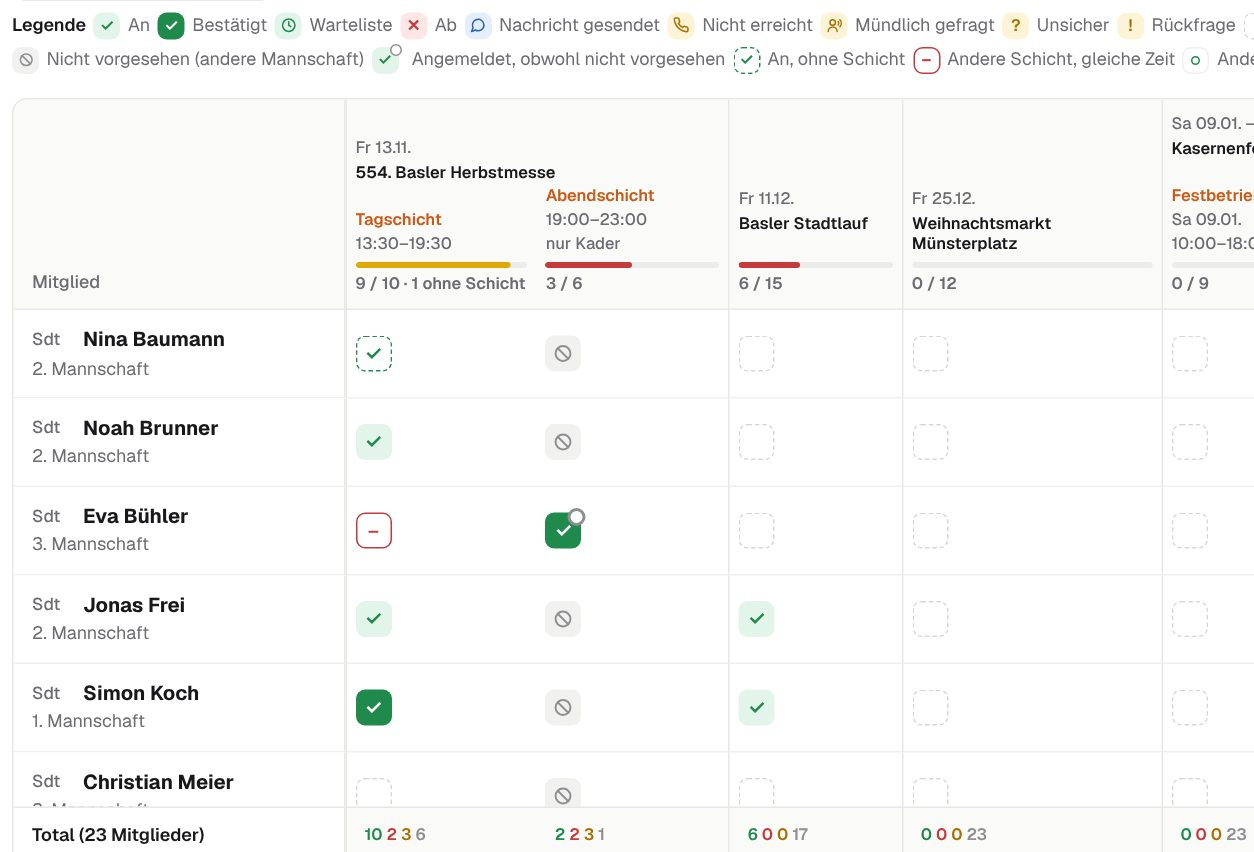
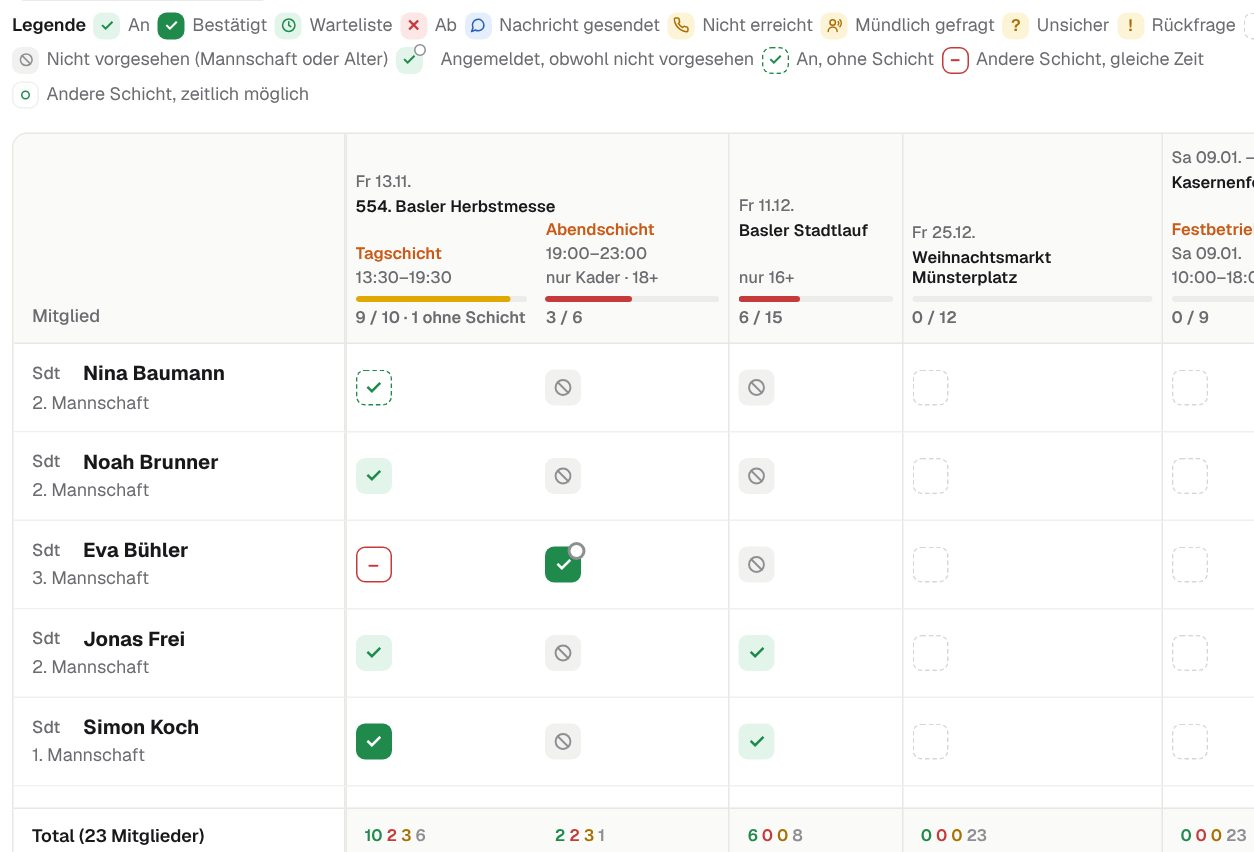
Schichten: Mindestalter 16+ / 18+ als Einschränkung (wie Mannschaften nur Hinweis)
- Schichten bearbeiten: neue Spalte «Alter» (alle, 16+, 18+)
- Alter am Tag der Schicht aus Geburtsdatum, sonst Jahrgang; unbekannt = vorgesehen
- Formular «Nur Kader · 18+», Rückmeldungen, Anfragen, Handy-App und Schichten berücksichtigen das Alter
- Handbuch Kapitel 8, 11, 12 und 13 nachgeführt

Claude-Session: https://claude.ai/code/session_01EBemd2wjisuy26JBVCoBZd

diff --git a/src/services/events.js b/src/services/events.js
@@ -34,13 +34,13 @@ function parseJson(s, fallback) {
 
 // Schichten mit «targets» = Soll pro Funktion ({ id: Anzahl }); target_count ist die Summe davon.
 // «teams» = vorgesehene Mannschaften (leer = alle)
-// «teamNames» = Namen dazu, z. B. «Kader» (leer = alle)
+// «rule» = Einschränkung als Text, z. B. «Kader · 18+» (leer = alle)
 function shiftsOf(eventId) {
   const list = db.all('SELECT * FROM shifts WHERE event_id = ? ORDER BY sort, starts_at, id', eventId)
-    .map((s) => ({ ...s, targets: functions.parseTargets(s.function_targets), teams: shiftTeams.parse(s.team_ids), teamNames: '' }));
-  if (list.some((s) => s.teams.length)) {
+    .map((s) => ({ ...s, targets: functions.parseTargets(s.function_targets), teams: shiftTeams.parse(s.team_ids), rule: '' }));
+  if (list.some(shiftTeams.restricted)) {
     const teams = db.all('SELECT id, name, sort FROM teams ORDER BY sort, name');
-    for (const s of list) s.teamNames = shiftTeams.label(s.teams, teams);
+    for (const s of list) s.rule = shiftTeams.ruleText(s, teams);
   }
   return list;
 }
@@ -359,11 +359,14 @@ function saveShifts(eventId, rows, newRow, user, { reason } = {}) {
     const teams = teamsFromInput(input);
     const oldTeams = shiftTeams.parse(shift.team_ids);
     const teamsChanged = Boolean(teams) && JSON.stringify(teams) !== JSON.stringify(oldTeams);
+    const minAge = input.min_age === undefined ? undefined : shiftTeams.parseMinAge(input.min_age);
+    const ageChanged = minAge !== undefined && minAge !== (shift.min_age || null);
     const details = audit.diff(shift, s, Object.keys(s));
-    if (!Object.keys(details).length && !targetsChanged && !teamsChanged) continue;
+    if (!Object.keys(details).length && !targetsChanged && !teamsChanged && !ageChanged) continue;
+    if (ageChanged) details.mindestalter = { alt: shift.min_age ? `${shift.min_age}+` : 'alle', neu: minAge ? `${minAge}+` : 'alle' };
     if (targetsChanged) details.soll = { alt: shift.target_count, neu: functions.total(targets) || null };
     if (teamsChanged) details.mannschaften = { alt: shiftTeams.label(oldTeams) || 'alle', neu: shiftTeams.label(teams) || 'alle' };
-    updates.push({ shift, s, targets: targetsChanged ? targets : null, teams: teamsChanged ? teams : null, details });
+    updates.push({ shift, s, targets: targetsChanged ? targets : null, teams: teamsChanged ? teams : null, minAge: ageChanged ? minAge : undefined, details });
   }
   let added = null;
   const hasNew = newRow && ['name', 'start', 'end', 'start_place', 'internal_note'].some((k) => String(newRow[k] || '').trim())
@@ -371,7 +374,7 @@ function saveShifts(eventId, rows, newRow, user, { reason } = {}) {
   if (hasNew) {
     if (!String(newRow.name || '').trim()) throw new ValidationError(['Neue Schicht: Name fehlt.']);
     try {
-      added = { s: cleanShift(e, newRow), targets: targetsFromInput(newRow) || {}, teams: teamsFromInput(newRow) || [] };
+      added = { s: cleanShift(e, newRow), targets: targetsFromInput(newRow) || {}, teams: teamsFromInput(newRow) || [], minAge: shiftTeams.parseMinAge(newRow.min_age) };
     } catch (err) {
       if (err instanceof ValidationError) throw new ValidationError(err.messages.map((m) => `Neue Schicht: ${m}`));
       throw err;
@@ -384,18 +387,19 @@ function saveShifts(eventId, rows, newRow, user, { reason } = {}) {
         u.s.name, u.s.starts_at, u.s.ends_at, u.s.start_place, u.s.internal_note, u.shift.id);
       if (u.targets) setShiftTargets(u.shift.id, u.targets);
       if (u.teams) db.run('UPDATE shifts SET team_ids = ? WHERE id = ?', JSON.stringify(u.teams), u.shift.id);
+      if (u.minAge !== undefined) db.run('UPDATE shifts SET min_age = ? WHERE id = ?', u.minAge, u.shift.id);
       audit.log({ entity: 'shift', entityId: u.shift.id, eventId: e.id, action: 'update', summary: `${user.display_name} hat die Schicht «${u.s.name}» bei «${e.name}» geändert${reason ? ` – Begründung: ${reason}` : ''}`, details: u.details, user });
     }
-    if (added) insertShift(e, added.s, added.targets, user, added.teams);
+    if (added) insertShift(e, added.s, added.targets, user, added.teams, added.minAge);
   });
   live.notify(`event:${e.id}`, 'form');
   return { updated: updates.length, added: Boolean(added) };
 }
 
-function insertShift(e, s, targets, user, teams = []) {
+function insertShift(e, s, targets, user, teams = [], minAge = null) {
   const sort = (db.one('SELECT max(sort) AS m FROM shifts WHERE event_id = ?', e.id).m ?? 0) + 1;
-  const info = db.run('INSERT INTO shifts (event_id, name, starts_at, ends_at, start_place, internal_note, team_ids, sort) VALUES (?, ?, ?, ?, ?, ?, ?, ?)',
-    e.id, s.name, s.starts_at, s.ends_at, s.start_place, s.internal_note, JSON.stringify(shiftTeams.parse(teams)), sort);
+  const info = db.run('INSERT INTO shifts (event_id, name, starts_at, ends_at, start_place, internal_note, team_ids, min_age, sort) VALUES (?, ?, ?, ?, ?, ?, ?, ?, ?)',
+    e.id, s.name, s.starts_at, s.ends_at, s.start_place, s.internal_note, JSON.stringify(shiftTeams.parse(teams)), shiftTeams.parseMinAge(minAge), sort);
   setShiftTargets(Number(info.lastInsertRowid), targets || {});
   // Sobald es mehrere Schichten gibt, ist die Standardschicht eine normale Schicht
   db.run('UPDATE shifts SET is_default = 0 WHERE event_id = ?', e.id);

diff --git a/src/services/shift-teams.js b/src/services/shift-teams.js
@@ -1,8 +1,10 @@
 'use strict';
-// Vorgesehene Mannschaften pro Schicht (z. B. eine Schicht nur für Kader).
-// Leer = alle Mannschaften. Die Einstellung ist ein Hinweis: Anmelden und Einteilen bleiben für alle möglich,
+// Einschränkungen pro Schicht: vorgesehene Mannschaften (z. B. nur Kader) und Mindestalter (16+ / 18+).
+// Leer = alle. Die Einstellung ist ein Hinweis: Anmelden und Einteilen bleiben für alle möglich,
 // die Rückmeldungen zeigen nicht vorgesehene Personen mit einem eigenen Symbol.
 const db = require('../db');
+
+const MIN_AGES = [16, 18];
 
 // JSON oder Liste -> sortierte Liste eindeutiger Mannschafts-IDs
 function parse(value) {
@@ -13,29 +15,68 @@ function parse(value) {
   return [...new Set([].concat(list || []).map(Number).filter((n) => Number.isInteger(n) && n > 0))].sort((a, b) => a - b);
 }
 
-// Mannschaften pro Person: Map(personId -> Set(teamId)); ohne Liste = alle Personen
-function personTeams(personIds = null) {
-  const rows = personIds
-    ? (personIds.length ? db.all(`SELECT person_id, team_id FROM person_teams WHERE person_id IN (${personIds.map(() => '?').join(',')})`, ...personIds) : [])
-    : db.all('SELECT person_id, team_id FROM person_teams');
+// Formular -> Mindestalter (16, 18) oder null
+function parseMinAge(value) {
+  const n = Number(value);
+  return MIN_AGES.includes(n) ? n : null;
+}
+
+// Angaben pro Person für die Prüfung: Map(personId -> { teams: Set, birth_date, birth_year })
+function personInfo(personIds) {
+  const ids = [...new Set(personIds.filter(Boolean))];
   const map = new Map();
-  for (const r of rows) {
-    if (!map.has(r.person_id)) map.set(r.person_id, new Set());
-    map.get(r.person_id).add(r.team_id);
+  if (!ids.length) return map;
+  const ph = ids.map(() => '?').join(',');
+  for (const p of db.all(`SELECT id, birth_date, birth_year FROM persons WHERE id IN (${ph})`, ...ids)) {
+    map.set(p.id, { teams: new Set(), birth_date: p.birth_date, birth_year: p.birth_year });
   }
+  for (const r of db.all(`SELECT person_id, team_id FROM person_teams WHERE person_id IN (${ph})`, ...ids)) map.get(r.person_id)?.teams.add(r.team_id);
   return map;
 }
 
-// Ist eine Person mit diesen Mannschaften für die Schicht vorgesehen?
-function allows(teamIds, personTeamSet) {
-  if (!teamIds || !teamIds.length) return true;
-  return Boolean(personTeamSet) && teamIds.some((t) => personTeamSet.has(t));
+// Alter am Tag «day» (YYYY-MM-DD): aus dem Geburtsdatum, sonst aus dem Jahrgang; unbekannt = null
+function ageOn(person, day) {
+  if (!person || !day) return null;
+  const y = Number(day.slice(0, 4));
+  if (/^\d{4}-\d{2}-\d{2}$/.test(person.birth_date || '')) {
+    const b = person.birth_date;
+    return y - Number(b.slice(0, 4)) - (day.slice(5) < b.slice(5) ? 1 : 0);
+  }
+  if (person.birth_year) return y - Number(person.birth_year);
+  return null;
 }
 
-// Namen der Mannschaften, z. B. «Kader, Zug 1»; leer = «alle»
+// Tag einer Schicht für die Altersprüfung
+function shiftDay(shift, event) {
+  return shift?.starts_at?.slice(0, 10) || event?.date || event?.date_from || null;
+}
+
+// Hat die Schicht eine Einschränkung?
+function restricted(shift) {
+  return Boolean(shift && ((shift.teams && shift.teams.length) || shift.min_age));
+}
+
+// Ist die Person für die Schicht vorgesehen? Unbekanntes Alter zählt als vorgesehen.
+function allows(shift, person, day) {
+  if (!restricted(shift)) return true;
+  if (shift.teams && shift.teams.length && !(person && shift.teams.some((t) => person.teams.has(t)))) return false;
+  if (shift.min_age) {
+    const age = ageOn(person, day);
+    if (age !== null && age < shift.min_age) return false;
+  }
+  return true;
+}
+
+// Namen der Mannschaften, z. B. «Kader, Zug 1»; leer = alle
 function label(teamIds, teams = db.all('SELECT id, name, sort FROM teams ORDER BY sort, name')) {
   if (!teamIds || !teamIds.length) return '';
   return teams.filter((t) => teamIds.includes(t.id)).map((t) => t.name).join(', ');
 }
 
-module.exports = { parse, personTeams, allows, label };
+// Text der Einschränkung, z. B. «Kader · 18+»; leer = keine
+function ruleText(shift, teams) {
+  if (!restricted(shift)) return '';
+  return [label(shift.teams || [], teams), shift.min_age ? `${shift.min_age}+` : ''].filter(Boolean).join(' · ');
+}
+
+module.exports = { MIN_AGES, parse, parseMinAge, personInfo, ageOn, shiftDay, restricted, allows, label, ruleText };

diff --git a/src/services/feedback.js b/src/services/feedback.js
@@ -108,7 +108,7 @@ function matrix({ team = '', period = '3m', sort = 'rang', includeDrafts = false
     // Soll = Summe der Soll-Werte aller Schichten
     const soll = new Map(db.all(`SELECT event_id, SUM(target_count) AS n FROM shifts WHERE event_id IN (${ph}) GROUP BY event_id`, ...ids).map((r) => [r.event_id, r.n]));
     const shifts = new Map();
-    for (const sh of db.all(`SELECT id, event_id, name, starts_at, ends_at, target_count, team_ids FROM shifts WHERE event_id IN (${ph}) ORDER BY sort, starts_at, id`, ...ids)) {
+    for (const sh of db.all(`SELECT id, event_id, name, starts_at, ends_at, target_count, team_ids, min_age FROM shifts WHERE event_id IN (${ph}) ORDER BY sort, starts_at, id`, ...ids)) {
       sh.teams = shiftTeams.parse(sh.team_ids);
       if (!shifts.has(sh.event_id)) shifts.set(sh.event_id, []);
       shifts.get(sh.event_id).push(sh);
@@ -138,18 +138,16 @@ function matrix({ team = '', period = '3m', sort = 'rang', includeDrafts = false
     : [{ event: e, shift: null, first: true, key: `${e.id}:0` }]));
   const totals = Object.fromEntries(evts.map((e) => [e.id, { an: 0, ab: 0, unsicher: 0, offen: 0 }]));
   const colTotals = Object.fromEntries(columns.map((c) => [c.key, { an: 0, ab: 0, unsicher: 0, offen: 0, andere: 0, schicht_offen: 0, nicht_vorgesehen: 0 }]));
-  // Vorgesehene Mannschaften: wer nicht dazugehört, bekommt ein eigenes Symbol (Anmelden bleibt möglich)
-  const pTeams = shiftTeams.personTeams(people.map((p) => p.id));
+  // Einschränkungen (Mannschaften, Mindestalter): wer nicht passt, bekommt ein eigenes Symbol (Anmelden bleibt möglich)
+  const pInfo = shiftTeams.personInfo(people.map((p) => p.id));
   const teamNames = db.all('SELECT id, name, sort FROM teams ORDER BY sort, name');
+  for (const e of evts) for (const sh of e.allShifts) sh.rule = shiftTeams.ruleText(sh, teamNames);
+  const fits = (p, sh, e) => shiftTeams.allows(sh, pInfo.get(p.id), shiftTeams.shiftDay(sh, e));
   // Für den Einsatz vorgesehen = für mindestens eine Schicht vorgesehen (ohne Schichten: immer)
-  const plannedForEvent = (p, e) => !e.allShifts.length || e.allShifts.some((sh) => shiftTeams.allows(sh.teams, pTeams.get(p.id)));
-  const plannedForCol = (p, col) => (col.shift ? shiftTeams.allows(col.shift.teams, pTeams.get(p.id)) : plannedForEvent(p, col.event));
-  // Text für das Fenster: für welche Mannschaften die Schicht(en) gedacht sind
-  const plannedText = (col) => {
-    const list = col.shift ? [col.shift] : col.event.allShifts;
-    const names = [...new Set(list.flatMap((sh) => sh.teams))];
-    return shiftTeams.label(names, teamNames);
-  };
+  const plannedForEvent = (p, e) => !e.allShifts.length || e.allShifts.some((sh) => fits(p, sh, e));
+  const plannedForCol = (p, col) => (col.shift ? fits(p, col.shift, col.event) : plannedForEvent(p, col.event));
+  // Text für Kopf und Fenster: Einschränkung der Schicht(en), z. B. «Kader · 18+»
+  const plannedText = (col) => [...new Set((col.shift ? [col.shift] : col.event.allShifts).map((sh) => sh.rule).filter(Boolean))].join(' / ');
   // Schichten einer Anmeldung: Zuteilung, sonst die Wünsche aus dem Formular
   const shiftsOf = (reg, e) => {
     if (!reg) return new Set();
@@ -208,7 +206,7 @@ function matrix({ team = '', period = '3m', sort = 'rang', includeDrafts = false
   if (sort === 'name') rows.sort((a, b) => a.person.last_name.localeCompare(b.person.last_name, 'de') || a.person.first_name.localeCompare(b.person.first_name, 'de'));
   // Kopfzeile: «nur Kader» bei Schichten mit vorgesehenen Mannschaften
   for (const col of columns) col.planned = plannedText(col);
-  for (const e of evts) for (const sh of e.shifts) sh.planned = shiftTeams.label(sh.teams, teamNames);
+  for (const e of evts) for (const sh of e.shifts) sh.planned = sh.rule;
   return { events: evts, columns, rows, totals, colTotals, allCount };
 }
 

diff --git a/src/services/inquiries.js b/src/services/inquiries.js
@@ -106,23 +106,26 @@ function rowFor(eventId, personId) {
 }
 
 /**
- * Vorgesehene Mannschaften der Schichten: pro Zeile «plan» = null (alle Schichten offen),
+ * Einschränkungen der Schichten (Mannschaften, Mindestalter): pro Zeile «plan» = null (alle Schichten passen),
  * { none: true } (für keine Schicht vorgesehen) oder { only: ['Tagschicht'] } (nur für einzelne Schichten).
  * Nur Hinweis – Anfragen und Anmelden bleiben möglich.
  */
 function markPlanned(eventId, rows) {
-  const shifts = db.all('SELECT id, name, team_ids FROM shifts WHERE event_id = ? ORDER BY sort, starts_at, id', eventId)
-    .map((sh) => ({ ...sh, teams: shiftTeams.parse(sh.team_ids) }));
+  const event = db.one('SELECT date, date_from FROM events WHERE id = ?', eventId);
+  const shifts = events().shiftsOf(eventId);
   for (const r of rows) r.plan = null;
-  if (!shifts.some((sh) => sh.teams.length) || !rows.length) return rows;
-  const pTeams = shiftTeams.personTeams(rows.map((r) => r.person_id));
+  if (!shifts.some(shiftTeams.restricted) || !rows.length) return rows;
+  const info = shiftTeams.personInfo(rows.map((r) => r.person_id));
+  const rules = [...new Set(shifts.map((sh) => sh.rule).filter(Boolean))].join(' / ');
   for (const r of rows) {
-    const ok = shifts.filter((sh) => shiftTeams.allows(sh.teams, pTeams.get(r.person_id)));
-    if (!ok.length) r.plan = { none: true, text: 'nicht vorgesehen', title: `Vorgesehen: ${shiftTeams.label([...new Set(shifts.flatMap((sh) => sh.teams))])}` };
-    else if (ok.length < shifts.length) r.plan = { only: ok.map((sh) => sh.name), text: `nur ${ok.map((sh) => sh.name).join(', ')}`, title: 'Andere Schichten sind für andere Mannschaften vorgesehen' };
+    const ok = shifts.filter((sh) => shiftTeams.allows(sh, info.get(r.person_id), shiftTeams.shiftDay(sh, event)));
+    if (!ok.length) r.plan = { none: true, text: 'nicht vorgesehen', title: `Vorgesehen: ${rules}` };
+    else if (ok.length < shifts.length) r.plan = { only: ok.map((sh) => sh.name), text: `nur ${ok.map((sh) => sh.name).join(', ')}`, title: `Andere Schichten sind eingeschränkt (${rules})` };
   }
   return rows;
 }
+// spät laden: events.js braucht dieses Modul nicht, aber so bleibt die Reihenfolge der require-Aufrufe egal
+const events = () => require('./events');
 
 function forPerson(personId) {
   const rows = db.all(`SELECT i.*, e.name AS event_name, e.date_from AS event_date, e.date_to AS event_date_to FROM inquiries i JOIN events e ON e.id = i.event_id WHERE i.person_id = ?`, personId);

diff --git a/test/mannschaften.test.js b/test/mannschaften.test.js
@@ -70,3 +70,32 @@ test('Rückmeldungen: Einsatz mit nur Kader-Schichten zählt Nicht-Kader nicht a
   assert.equal(all.totals[id].nicht_vorgesehen, 1);
   assert.ok(tag && abend);
 });
+
+test('Mindestalter 16+ / 18+: Alter am Tag der Schicht, unbekannt zählt als vorgesehen', () => {
+  const st = require('../src/services/shift-teams');
+  assert.equal(st.ageOn({ birth_date: '2008-11-20' }, '2026-11-19'), 17);
+  assert.equal(st.ageOn({ birth_date: '2008-11-20' }, '2026-11-20'), 18);
+  assert.equal(st.ageOn({ birth_year: 2010 }, '2026-03-01'), 16);
+  assert.equal(st.ageOn({}, '2026-03-01'), null);
+  const { id, tag, abend, k, z } = setup();
+  const day = abend.starts_at.slice(0, 10);
+  const y = Number(day.slice(0, 4));
+  db.run('UPDATE persons SET birth_year = ? WHERE id = ?', y - 17, k);   // 17 -> zu jung für 18+
+  db.run('UPDATE persons SET birth_year = ? WHERE id = ?', y - 20, z);   // 20 -> passt
+  const row = (s, extra) => ({ name: s.name, date: day, start: s.starts_at.slice(11, 16), end: s.ends_at.slice(11, 16), ...extra });
+  events.saveShifts(id, { [abend.id]: row(abend, { min_age: '18' }) }, null, system);
+  const a2 = events.shiftsOf(id)[1];
+  assert.equal(a2.min_age, 18);
+  assert.equal(a2.rule, '18+');
+  const m = feedback.matrix({});
+  const col = m.columns.findIndex((c) => c.shift && c.shift.id === abend.id);
+  assert.equal(m.rows.find((r) => r.person.id === k).cells[col].state, 'nicht_vorgesehen');
+  assert.equal(m.rows.find((r) => r.person.id === z).cells[col].state, 'offen');
+  assert.equal(m.columns[col].planned, '18+');
+  // ohne Feld im Formular bleibt der Wert; «alle» löscht ihn
+  events.saveShifts(id, { [abend.id]: row(abend, { name: 'Abend 2' }) }, null, system);
+  assert.equal(events.shiftsOf(id)[1].min_age, 18);
+  events.saveShifts(id, { [abend.id]: row(abend, { name: 'Abend 2', min_age: '' }) }, null, system);
+  assert.equal(events.shiftsOf(id)[1].min_age, null);
+  assert.ok(tag);
+});

diff --git a/src/routes/events.js b/src/routes/events.js
@@ -404,8 +404,8 @@ router.get('/einsaetze/:id/schichten', loadEvent, (req, res) => {
   combos.sort((a, b) => a.value.split(',').length - b.value.split(',').length);
   // Vorgesehene Mannschaften pro Schicht: wer nicht vorgesehen ist, wird markiert (nicht gesperrt)
   const teamList = db.all('SELECT id, name, sort, active FROM teams ORDER BY sort, name');
-  const pTeams = shiftTeams.personTeams(regs.map((r) => r.person_id));
-  const notPlanned = (r, s) => !shiftTeams.allows(s.teams, pTeams.get(r.person_id));
+  const pInfo = shiftTeams.personInfo(regs.map((r) => r.person_id));
+  const notPlanned = (r, s) => !shiftTeams.allows(s, pInfo.get(r.person_id), shiftTeams.shiftDay(s, e));
   res.render('pages/event', { title: `${e.name} · Schichten`, tab: 'schichten', stats, columns, unassigned, combos, overlaps: registrations.overlaps(e.id), regs,
     teamList, notPlanned, teamLabel: (ids) => shiftTeams.label(ids, teamList),
     fnCols: functions.all().filter((f) => f.active || f.is_default || e.shifts.some((s) => s.targets[f.id])), ...functionPanel(e) });

diff --git a/src/db/index.js b/src/db/index.js
@@ -28,7 +28,7 @@ const NEW_COLUMNS = {
   mail_outbox: [['body_html', 'TEXT']],
   event_externals: [['diets', "JSON NOT NULL DEFAULT '[]'"], ['function_id', 'INTEGER REFERENCES functions(id)']],
   events: [['function_targets', "JSON NOT NULL DEFAULT '{}'"], ['date_from', 'TEXT'], ['date_to', 'TEXT']],
-  shifts: [['function_targets', "JSON NOT NULL DEFAULT '{}'"], ['team_ids', "JSON NOT NULL DEFAULT '[]'"]],
+  shifts: [['function_targets', "JSON NOT NULL DEFAULT '{}'"], ['team_ids', "JSON NOT NULL DEFAULT '[]'"], ['min_age', 'INTEGER']],
   registrations: [['function_id', 'INTEGER REFERENCES functions(id)']],
 };
 

diff --git a/src/lib/labels.js b/src/lib/labels.js
@@ -80,7 +80,7 @@ const FEEDBACK = {
   andere: { label: 'Andere Schicht', tone: 'gray' },
   schicht_offen: { label: 'An, ohne Schicht', tone: 'green' },
   // Schicht ist für andere Mannschaften vorgesehen (Anmelden bleibt möglich)
-  nicht_vorgesehen: { label: 'Nicht vorgesehen (andere Mannschaft)', tone: 'gray' },
+  nicht_vorgesehen: { label: 'Nicht vorgesehen (Mannschaft oder Alter)', tone: 'gray' },
 };
 
 const PERSON_STATUS = {

diff --git a/public/css/app.css b/public/css/app.css
@@ -822,3 +822,4 @@ tr.note-row > td { padding-top: 0; }
 .note-k { flex: none; width: 128px; font-size: 12px; font-weight: 500; color: var(--muted); }
 .note-intern { border-left-color: var(--orange-dark); }
 .note-intern .note-k { color: var(--orange-dark); }
+.form-table select.age-pick { min-width: 78px; width: 78px; }

diff --git a/docs/handbuch/handbuch.md b/docs/handbuch/handbuch.md
@@ -286,7 +286,7 @@ Es gibt ein einziges, gemeinsames Anmeldeformular für alle Einsätze. Es ist ei
 - **Mehrere Tage:** Liegen die Schichten an verschiedenen Tagen, steht bei jeder Schicht ihr Tag, z. B. «Sa 02.01. 10:00–18:00».
 - **Mehrere Schichten:** die gewünschten Schichten ankreuzen.
 - **Eine Schicht:** «Ja, ich bin dabei» antippen. Wer nicht kann, lässt den Einsatz einfach leer.
-- **Nur für bestimmte Mannschaften:** Ist eine Schicht z. B. nur für das Kader gedacht (Kapitel 12), steht neben der Schicht «Nur Kader». Bei einem Einsatz mit einer Schicht steht der Hinweis über «Ja, ich bin dabei». Anmelden können sich trotzdem alle.
+- **Nur für bestimmte Mannschaften oder ein Mindestalter:** Ist eine Schicht z. B. nur für das Kader oder erst ab 18 gedacht (Kapitel 12), steht neben der Schicht «Nur Kader» bzw. «Nur 18+». Beides zusammen heisst «Nur Kader · 18+». Bei einem Einsatz mit einer Schicht steht der Hinweis über «Ja, ich bin dabei». Anmelden können sich trotzdem alle.
 
 ![Formular: Hinweis «Nur Kader» bei einer Schicht](bilder/59-formular-nur-kader.jpg)
 
@@ -394,7 +394,7 @@ Weitere Hilfen im Reiter:
 - **Gruppen:** Oben stehen die Personen, bei denen noch etwas offen ist (**Noch offen**). Darunter folgen unter **Erledigt** alle, die zugesagt, sich angemeldet oder abgesagt haben.
 - **Kontaktversuche** stehen mit Kanal (Tel / WA), Datum, Uhrzeit, wer es war, Ergebnis und Notiz.
 - Der **Pfeil ↶** beim letzten Kontaktversuch nimmt nur diesen Versuch zurück, falls er falsch erfasst wurde. Hat er eine Anmeldung erzeugt, wird diese mitgelöscht. Hat er eine bestehende Anmeldung zurückgezogen, bekommt sie ihren Status von vorher zurück.
-- **Vorgesehene Mannschaften:** Ist eine Schicht nur für bestimmte Mannschaften gedacht (Kapitel 12), steht beim Namen ein Hinweis. «nicht vorgesehen» heisst: Die Person passt zu keiner Schicht dieses Einsatzes. «nur Tagschicht» heisst: Sie passt nur zu dieser Schicht. Anfragen und Erfassen gehen trotzdem. Dasselbe steht in der Handy-App auf der Karte der Person.
+- **Vorgesehene Mannschaften und Alter:** Ist eine Schicht nur für bestimmte Mannschaften oder ein Mindestalter gedacht (Kapitel 12), steht beim Namen ein Hinweis. «nicht vorgesehen» heisst: Die Person passt zu keiner Schicht dieses Einsatzes. «nur Tagschicht» heisst: Sie passt nur zu dieser Schicht. Anfragen und Erfassen gehen trotzdem. Dasselbe steht in der Handy-App auf der Karte der Person.
 - **Mehrere auf einmal:** Hat man mehreren dieselbe WhatsApp geschickt, kreuzt man sie links an. Dann erscheint der Knopf **Kontakt für 3 Personen erfassen** (mit der Anzahl), und man erfasst den Kontakt für alle in einem Schritt. **Alle auswählen** kreuzt die ganze (gefilterte) Liste an.
 
 ![Kontaktversuch erfassen](bilder/12-kontaktversuch.jpg)
@@ -565,11 +565,11 @@ Die meisten Einsätze haben nur eine Schicht für alle. Dann gibt es nichts zu v
 - Jede Schicht ist eine Spalte mit Zeit und Besetzung (Ist / Soll). Grün heisst voll. Darunter Ist / Soll pro Funktion, z. B. «EL 1/1 · SC 2/2 · TN 5/6».
 - **Funktion pro Person:** In jeder Zeile wählt man im kleinen Auswahlfeld EL, SC, BF oder TN (Kapitel 6). Das zweite Auswahlfeld teilt die Person einer anderen Schicht zu.
 - **Schichten bearbeiten** (unten, zugeklappt; **Öffnen** klappt die Tabelle auf): Name, Tag, Zeit, das Soll pro Funktion (Spalten EL, SC, BF, TN), Antretensort und interne Bemerkung. Die Spalte «Soll» zeigt die Summe und rechnet beim Tippen mit. Gespeichert wird wie in jeder Tabelle mit einem Knopf unten rechts (Kapitel 3). Eine neue Schicht trägst du in der untersten Zeile ein. **Hinzufügen** in dieser Zeile speichert ebenfalls alles auf einmal. **Löschen** wirkt sofort pro Zeile (mit Rückfrage). Ist eine Zeile ungültig, z. B. eine angefangene neue Schicht ohne Namen, wird nichts gespeichert.
-- **Mannschaften pro Schicht:** In «Schichten bearbeiten» legst du in der Spalte **Mannschaften** fest, für wen eine Schicht gedacht ist, z. B. nur für das Kader. Klick auf **alle** öffnet eine Liste zum Ankreuzen. Nichts angekreuzt heisst: alle Mannschaften. Gespeichert wird mit dem Knopf **Speichern** unten rechts. Das gilt auch für einen Einsatz mit nur einer Schicht.
+- **Mannschaften und Alter pro Schicht:** In «Schichten bearbeiten» legst du in der Spalte **Mannschaften** fest, für wen eine Schicht gedacht ist, z. B. nur für das Kader. Klick auf **alle** öffnet eine Liste zum Ankreuzen. Nichts angekreuzt heisst: alle Mannschaften. In der Spalte **Alter** wählst du **16+** oder **18+**. «alle» heisst: kein Mindestalter. Das Alter zählt am Tag der Schicht. Die App rechnet es aus dem Geburtsdatum, sonst aus dem Jahrgang. Fehlt beides, gilt die Person als vorgesehen. Gespeichert wird mit dem Knopf **Speichern** unten rechts. Das gilt auch für einen Einsatz mit nur einer Schicht.
 
 ![Schichten bearbeiten: Mannschaften ankreuzen](bilder/57-schichten-mannschaften.jpg)
 
-- **Was die Einstellung bewirkt:** Sie ist ein Hinweis, keine Sperre. Im Formular sehen alle Mitglieder alle Schichten, mit dem Hinweis «Nur Kader» (Kapitel 8). Alle können sich anmelden. Einteilen geht auch für alle. Im Spaltenkopf der Schicht steht «nur Kader». Ist eine Person aus einer anderen Mannschaft eingeteilt, steht bei ihr «nicht vorgesehen». In den Rückmeldungen hat sie ein eigenes Symbol (Kapitel 13). Unter Anfragen steht bei ihr «nicht vorgesehen» oder z. B. «nur Tagschicht» (Kapitel 11).
+- **Was die Einstellung bewirkt:** Sie ist ein Hinweis, keine Sperre. Im Formular sehen alle Mitglieder alle Schichten, mit dem Hinweis «Nur Kader» (Kapitel 8). Alle können sich anmelden. Einteilen geht auch für alle. Im Spaltenkopf der Schicht steht z. B. «nur Kader · 18+». Ist eine Person eingeteilt, die nicht dazu passt, steht bei ihr «nicht vorgesehen». In den Rückmeldungen hat sie ein eigenes Symbol (Kapitel 13). Unter Anfragen steht bei ihr «nicht vorgesehen» oder z. B. «nur Tagschicht» (Kapitel 11).
 - **Noch keiner Schicht zugeteilt:** Anmeldungen ohne Schicht stehen oben und werden über «zuteilen …» eingeteilt.
 - **Umteilen** über das Auswahlfeld bei der Person. Eine Person kann auch mehreren Schichten zugeteilt sein («Tag + Abend»).
 - **+ Person aus Anmeldungen hinzufügen:** Name tippen und auswählen.
@@ -599,7 +599,7 @@ Die Seite **Rückmeldungen** beantwortet die wichtigste Frage der Aufgebotsstell
 - Nach dem Speichern, «Verlauf löschen» oder «Alles zurücksetzen» bleibt die Seite an derselben Stelle stehen. Auch die Tabelle springt nicht nach oben oder links zurück.
 - **Einsätze mit mehreren Schichten** haben eine Spalte pro Schicht, mit eigener Besetzung (z. B. «Tagschicht 8 / 10 · 1 ohne Schicht»). «ohne Schicht» heisst: zugesagt, aber noch keiner Schicht zugeteilt. ✓ heisst: für diese Schicht angemeldet oder eingeteilt. Ein gestricheltes ✓ heisst: zugesagt, aber die Schicht ist noch nicht festgelegt. Ab, Unsicher und Offen gelten für alle Schichten des Einsatzes.
 - **Andere Schicht: geht es zeitlich?** Ist eine Person in einer anderen Schicht, rechnet die App aus Datum und Zeit, ob sie diese Schicht trotzdem machen kann. Ein **rotes –** heisst: Die Schicht liegt zur selben Zeit wie ihre Schicht. Die Person kann also nicht. Ein **kleiner grüner Ring** heisst: Die Zeiten überschneiden sich nicht. Die Person könnte diese Schicht zusätzlich machen, z. B. an einem anderen Tag. Endet eine Schicht genau dann, wenn die andere beginnt, gilt das nicht als Überschneidung. Eine Nachtschicht über Mitternacht zählt bis zu ihrem Ende am nächsten Tag. Fehlt bei einer Schicht die Zeit, steht ein Punkt (·).
-- **Nicht vorgesehene Mannschaft:** Ist eine Schicht nur für bestimmte Mannschaften gedacht (Kapitel 12), steht im Spaltenkopf z. B. «nur Kader». Personen aus anderen Mannschaften haben dort ein graues Feld mit einem **durchgestrichenen Kreis**. Es zählt nicht als «Offen». Hat sich eine solche Person trotzdem angemeldet, steht ihr normales Symbol, z. B. ✓, mit einem **kleinen grauen Ring** oben rechts. Das Fenster beim Darüberfahren nennt die vorgesehenen Mannschaften. Ein Klick öffnet wie immer das Fenster für einen Kontaktversuch. Ist eine Person für keine Schicht eines Einsatzes vorgesehen, zählt dieser Einsatz bei «Nur mit offenen Einsätzen» für sie nicht.
+- **Nicht vorgesehene Mannschaft:** Ist eine Schicht nur für bestimmte Mannschaften gedacht (Kapitel 12), steht im Spaltenkopf z. B. «nur Kader». Personen aus anderen Mannschaften oder unter dem Mindestalter haben dort ein graues Feld mit einem **durchgestrichenen Kreis**. Es zählt nicht als «Offen». Hat sich eine solche Person trotzdem angemeldet, steht ihr normales Symbol, z. B. ✓, mit einem **kleinen grauen Ring** oben rechts. Das Fenster beim Darüberfahren nennt die vorgesehenen Mannschaften. Ein Klick öffnet wie immer das Fenster für einen Kontaktversuch. Ist eine Person für keine Schicht eines Einsatzes vorgesehen, zählt dieser Einsatz bei «Nur mit offenen Einsätzen» für sie nicht.
 
 ![Rückmeldungen: Abendschicht nur für das Kader](bilder/58-rueckmeldungen-nicht-vorgesehen.jpg)
 - Klickt man in einer Schicht-Spalte auf ein offenes Feld und wählt **«Zugesagt»**, ist diese Schicht schon angekreuzt. Weitere Schichten lassen sich dazu wählen, oder man lässt die Auswahl leer und teilt später unter «Schichten» zu. Das gilt genauso beim Erfassen unter Einsatz › Anfragen und auf der Seite eines Mitglieds.
@@ -621,8 +621,8 @@ Die Seite **Rückmeldungen** beantwortet die wichtigste Frage der Aufgebotsstell
 | Andere Schicht, gleiche Zeit (rotes –) | In einer anderen Schicht, die zur selben Zeit liegt. Die Person kann diese Schicht nicht machen |
 | Andere Schicht, zeitlich möglich (kleiner grüner Ring) | In einer anderen Schicht, die zu einer anderen Zeit liegt. Die Person könnte diese Schicht zusätzlich machen |
 | An, ohne Schicht (gestricheltes ✓) | Zugesagt, Schicht noch nicht festgelegt |
-| Nicht vorgesehen (grauer, durchgestrichener Kreis) | Die Schicht ist für andere Mannschaften gedacht. Die Person kann sich trotzdem anmelden |
-| Angemeldet, obwohl nicht vorgesehen (Symbol mit kleinem grauem Ring) | Die Person ist angemeldet oder unsicher, gehört aber nicht zu den vorgesehenen Mannschaften |
+| Nicht vorgesehen (grauer, durchgestrichener Kreis) | Die Schicht ist für andere Mannschaften oder erst ab einem höheren Alter gedacht. Die Person kann sich trotzdem anmelden |
+| Angemeldet, obwohl nicht vorgesehen (Symbol mit kleinem grauem Ring) | Die Person ist angemeldet oder unsicher, passt aber nicht zur Mannschaft oder zum Alter der Schicht |
 
 ### Verlauf pro Person und Einsatz
 
